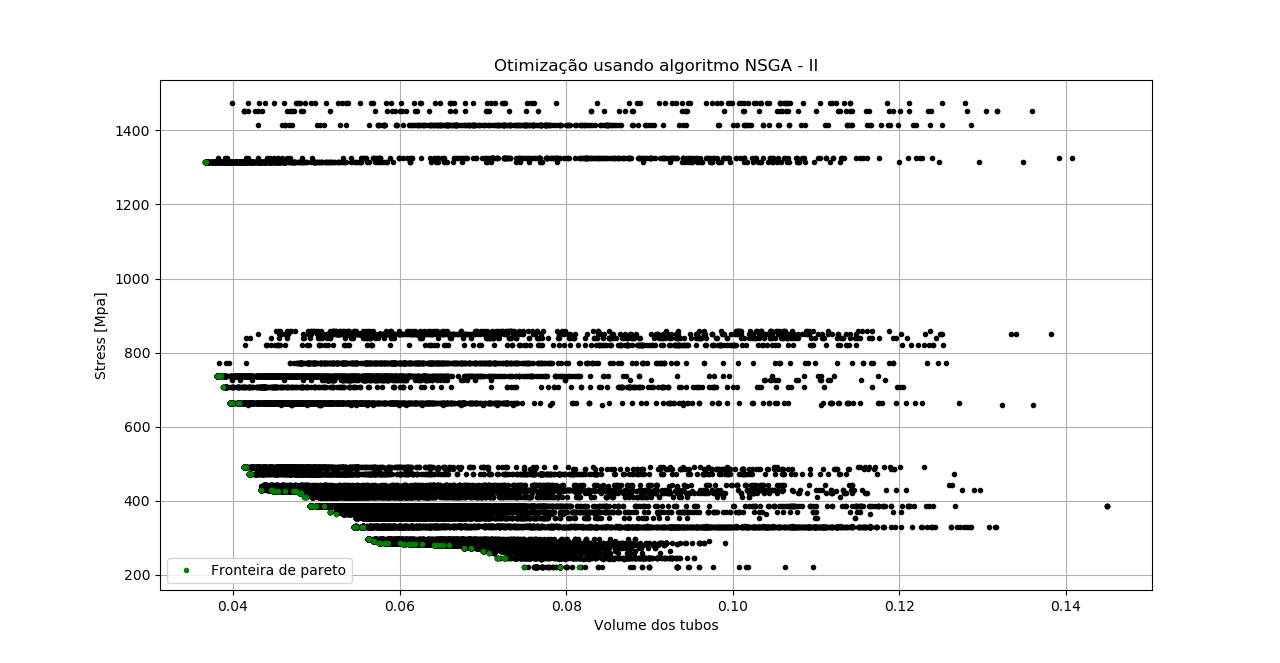
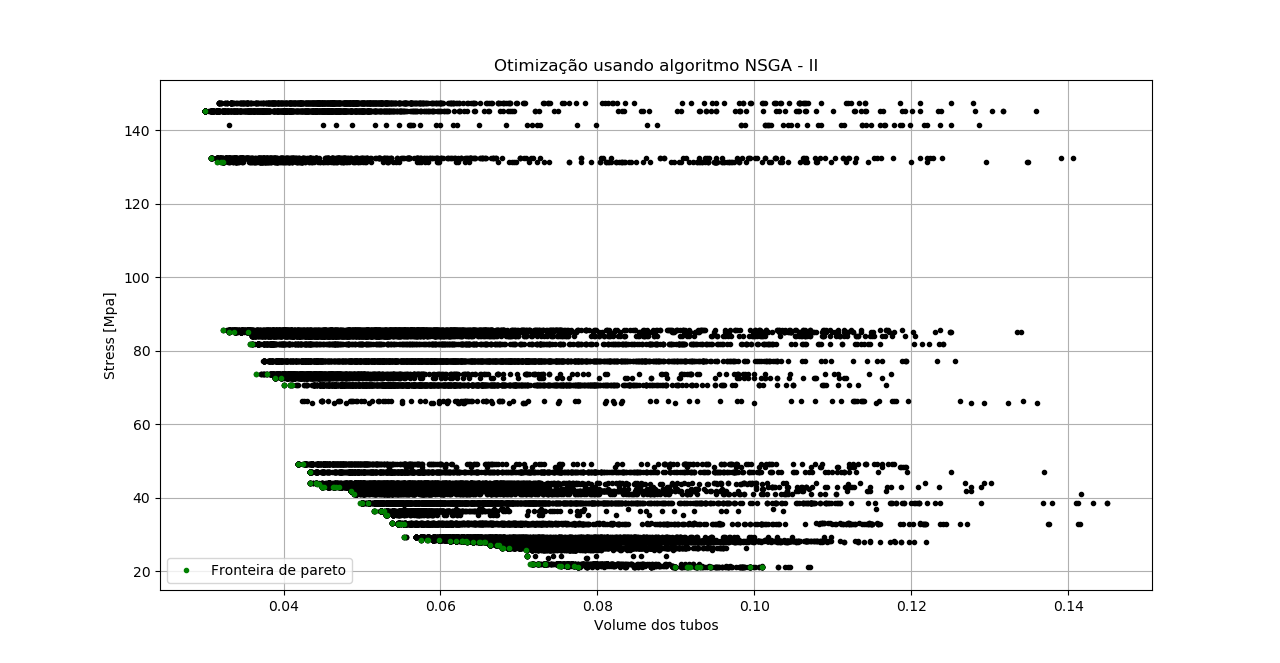
update

diff --git a/otimizacao_estudoCaso2.py b/otimizacao_estudoCaso2.py
@@ -99,7 +99,7 @@ elementos.extend(elementos8)
 
 elementos = tuple( [ (j, elementos[j][0], elementos[j][1]) for j in range(len(elementos))] )
 
-F = 100000 #N
+F = 10000 #N
 forcas = (
     #(15, 0, -F),
     (15, 1, -0.75*F),
@@ -227,7 +227,7 @@ if __name__ == "__main__":
     import plotter3D as plott
 
     [pop, logger, hof] = main(300, 100)
-    best = hof.items[-1]
+    best = hof.items[-13]
     print()
     print("Melhor Solucao = ",best, volume(best))
     print("Fitness do melhor individuo = ", best.fitness.values[0])
@@ -249,7 +249,7 @@ if __name__ == "__main__":
     model2 = Fem3d(nodes,elementos,forcas,contorno,E2,0.0013,rho)
     Deslocamento2, reacoes2 = model2.solve()
     tensoes2 = model2.getStress(deslo= Deslocamento2)
-    tensoes2 = np.array(tensoes2)*(10**-6) #mpa
+    tensoes2 = np.array(tensoes2) #mpa
     pos = plott.Posprocess(model2)
     pos.plotStress3D(tensoes2, var='[Mpa]')
 

diff --git a/estudoCaso2.py b/estudoCaso2.py
@@ -108,7 +108,7 @@ for node in nodes:
     #ax.text(x = nodes[elem[2]][1] , y = nodes[elem[2]][2] , z = nodes[elem[2]][3] , s = str(nodes[elem[2]][0]) )
 plt.show()
 '''
-F = 100000 #N
+F = 10000 #N
 forcas = (
     #(15, 0, -F),
     (15, 1, -0.75*F),
